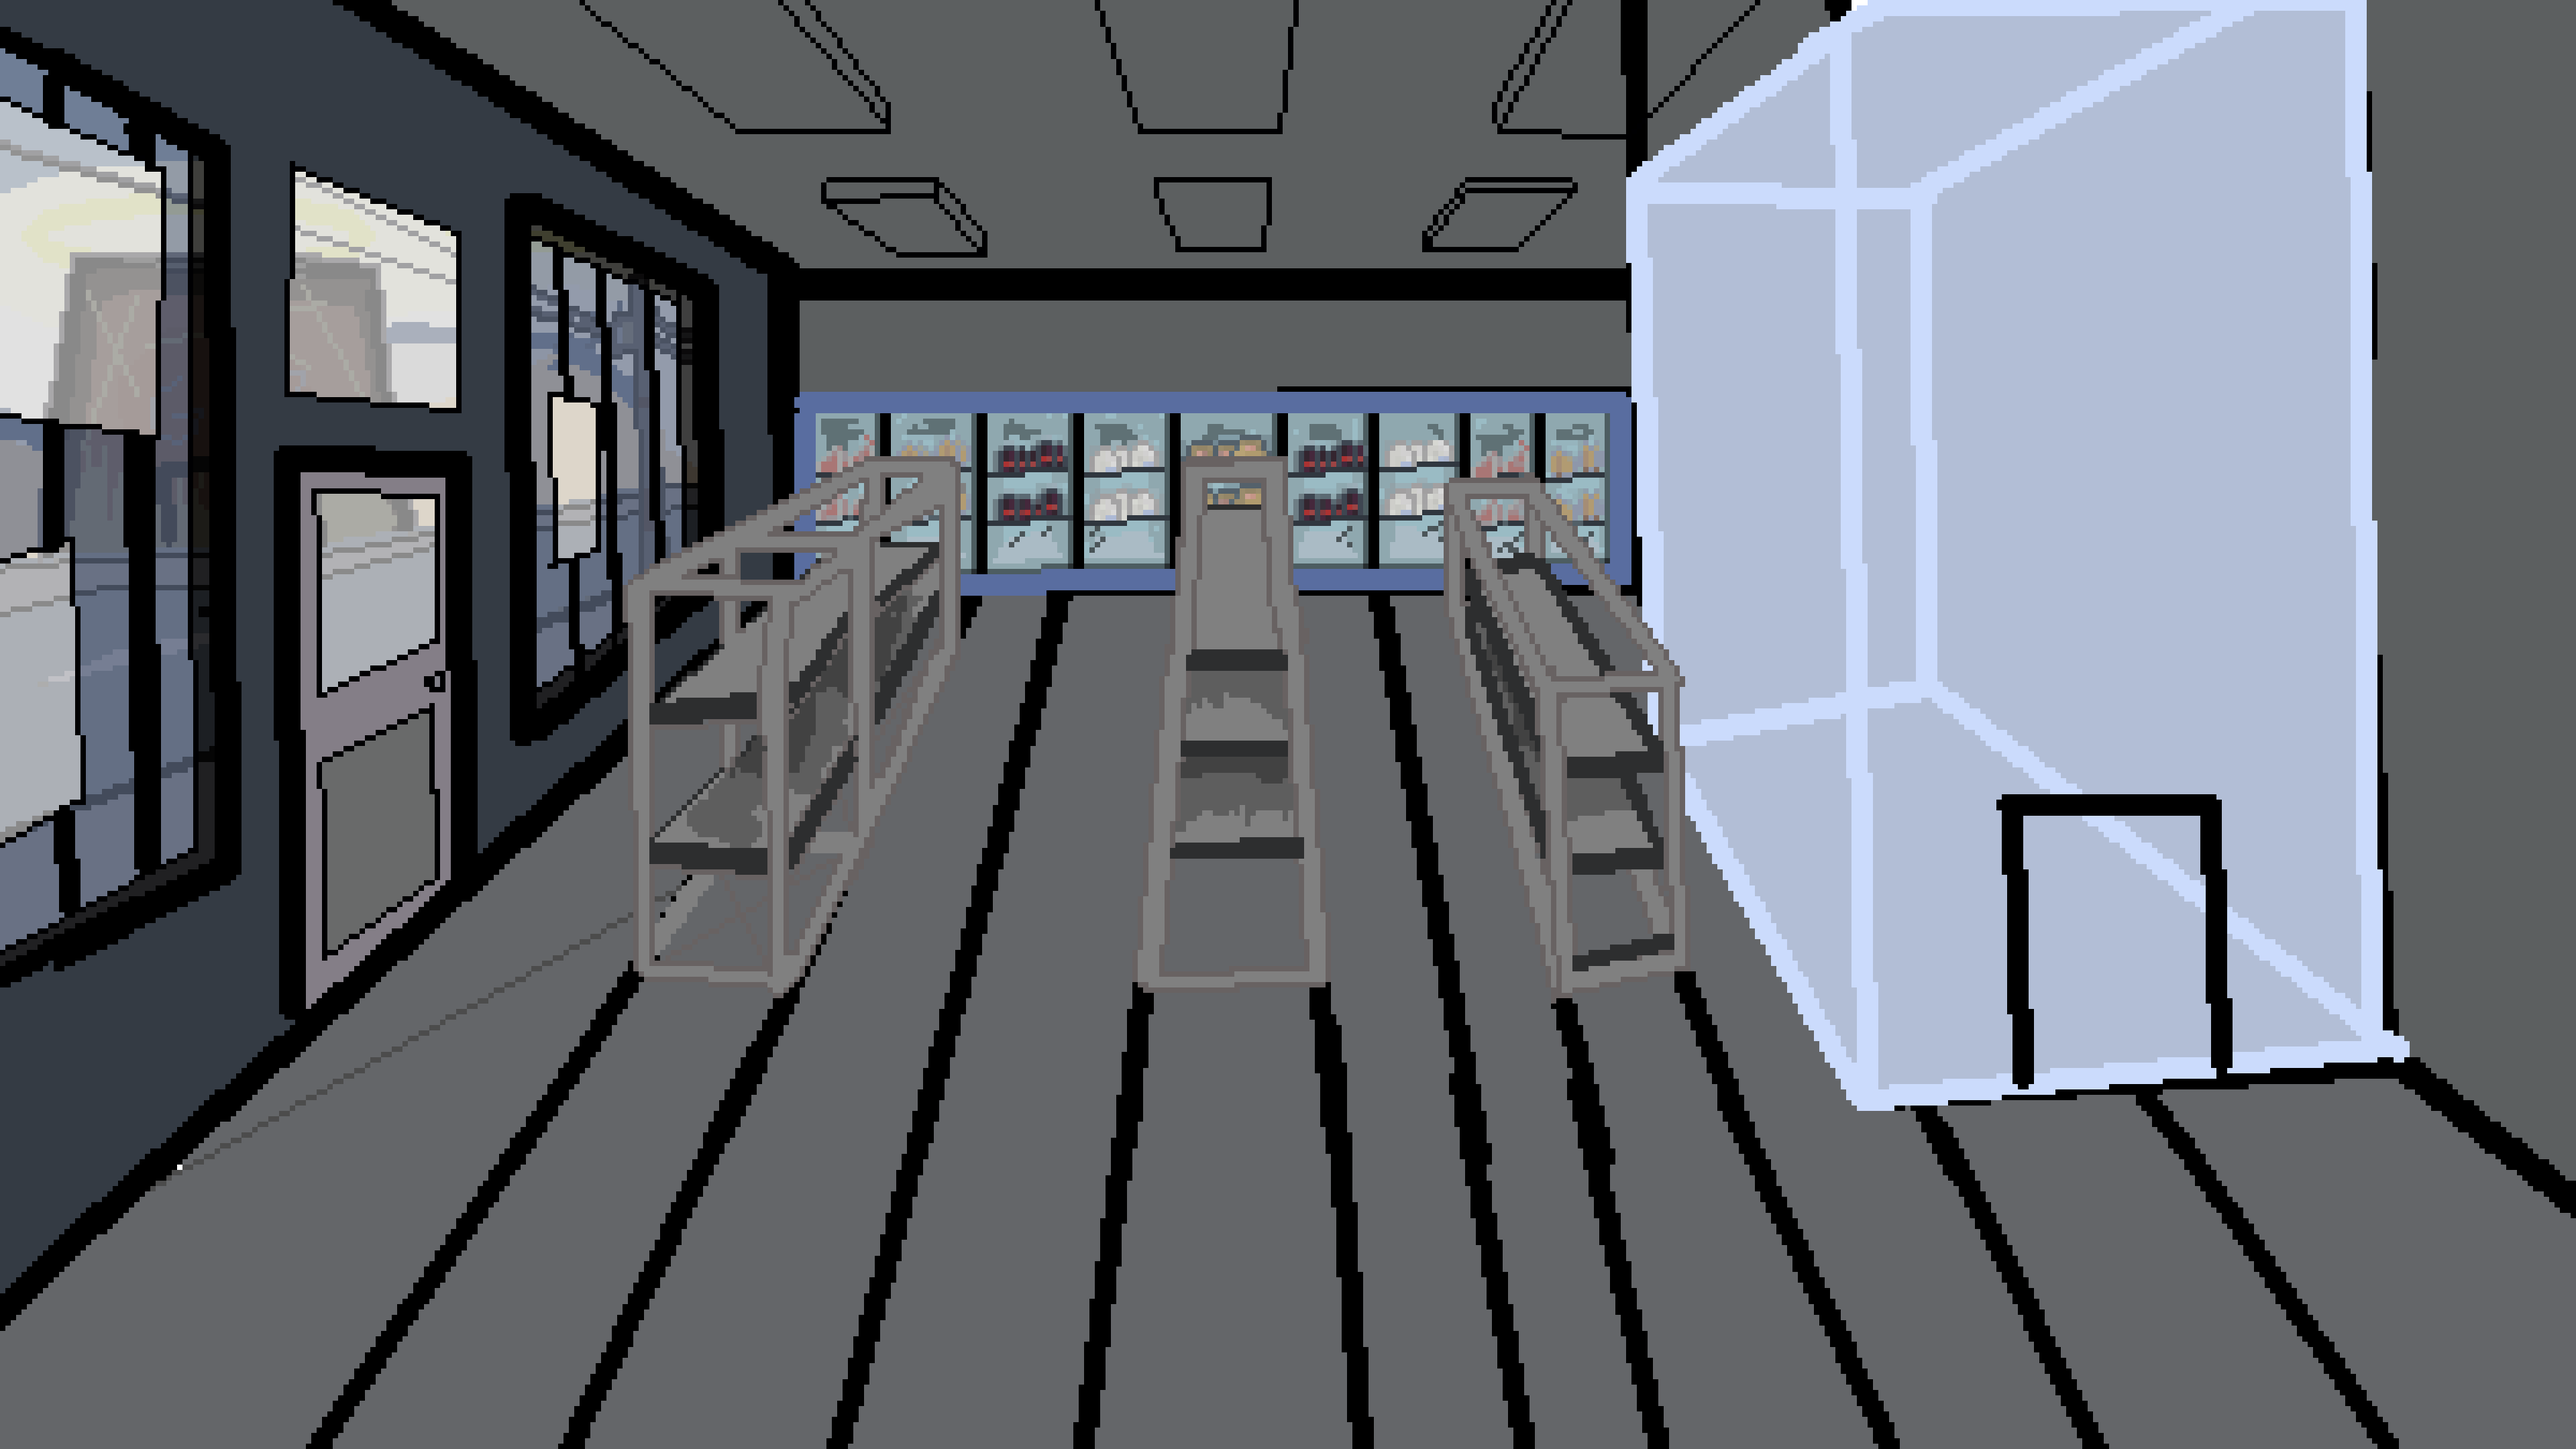
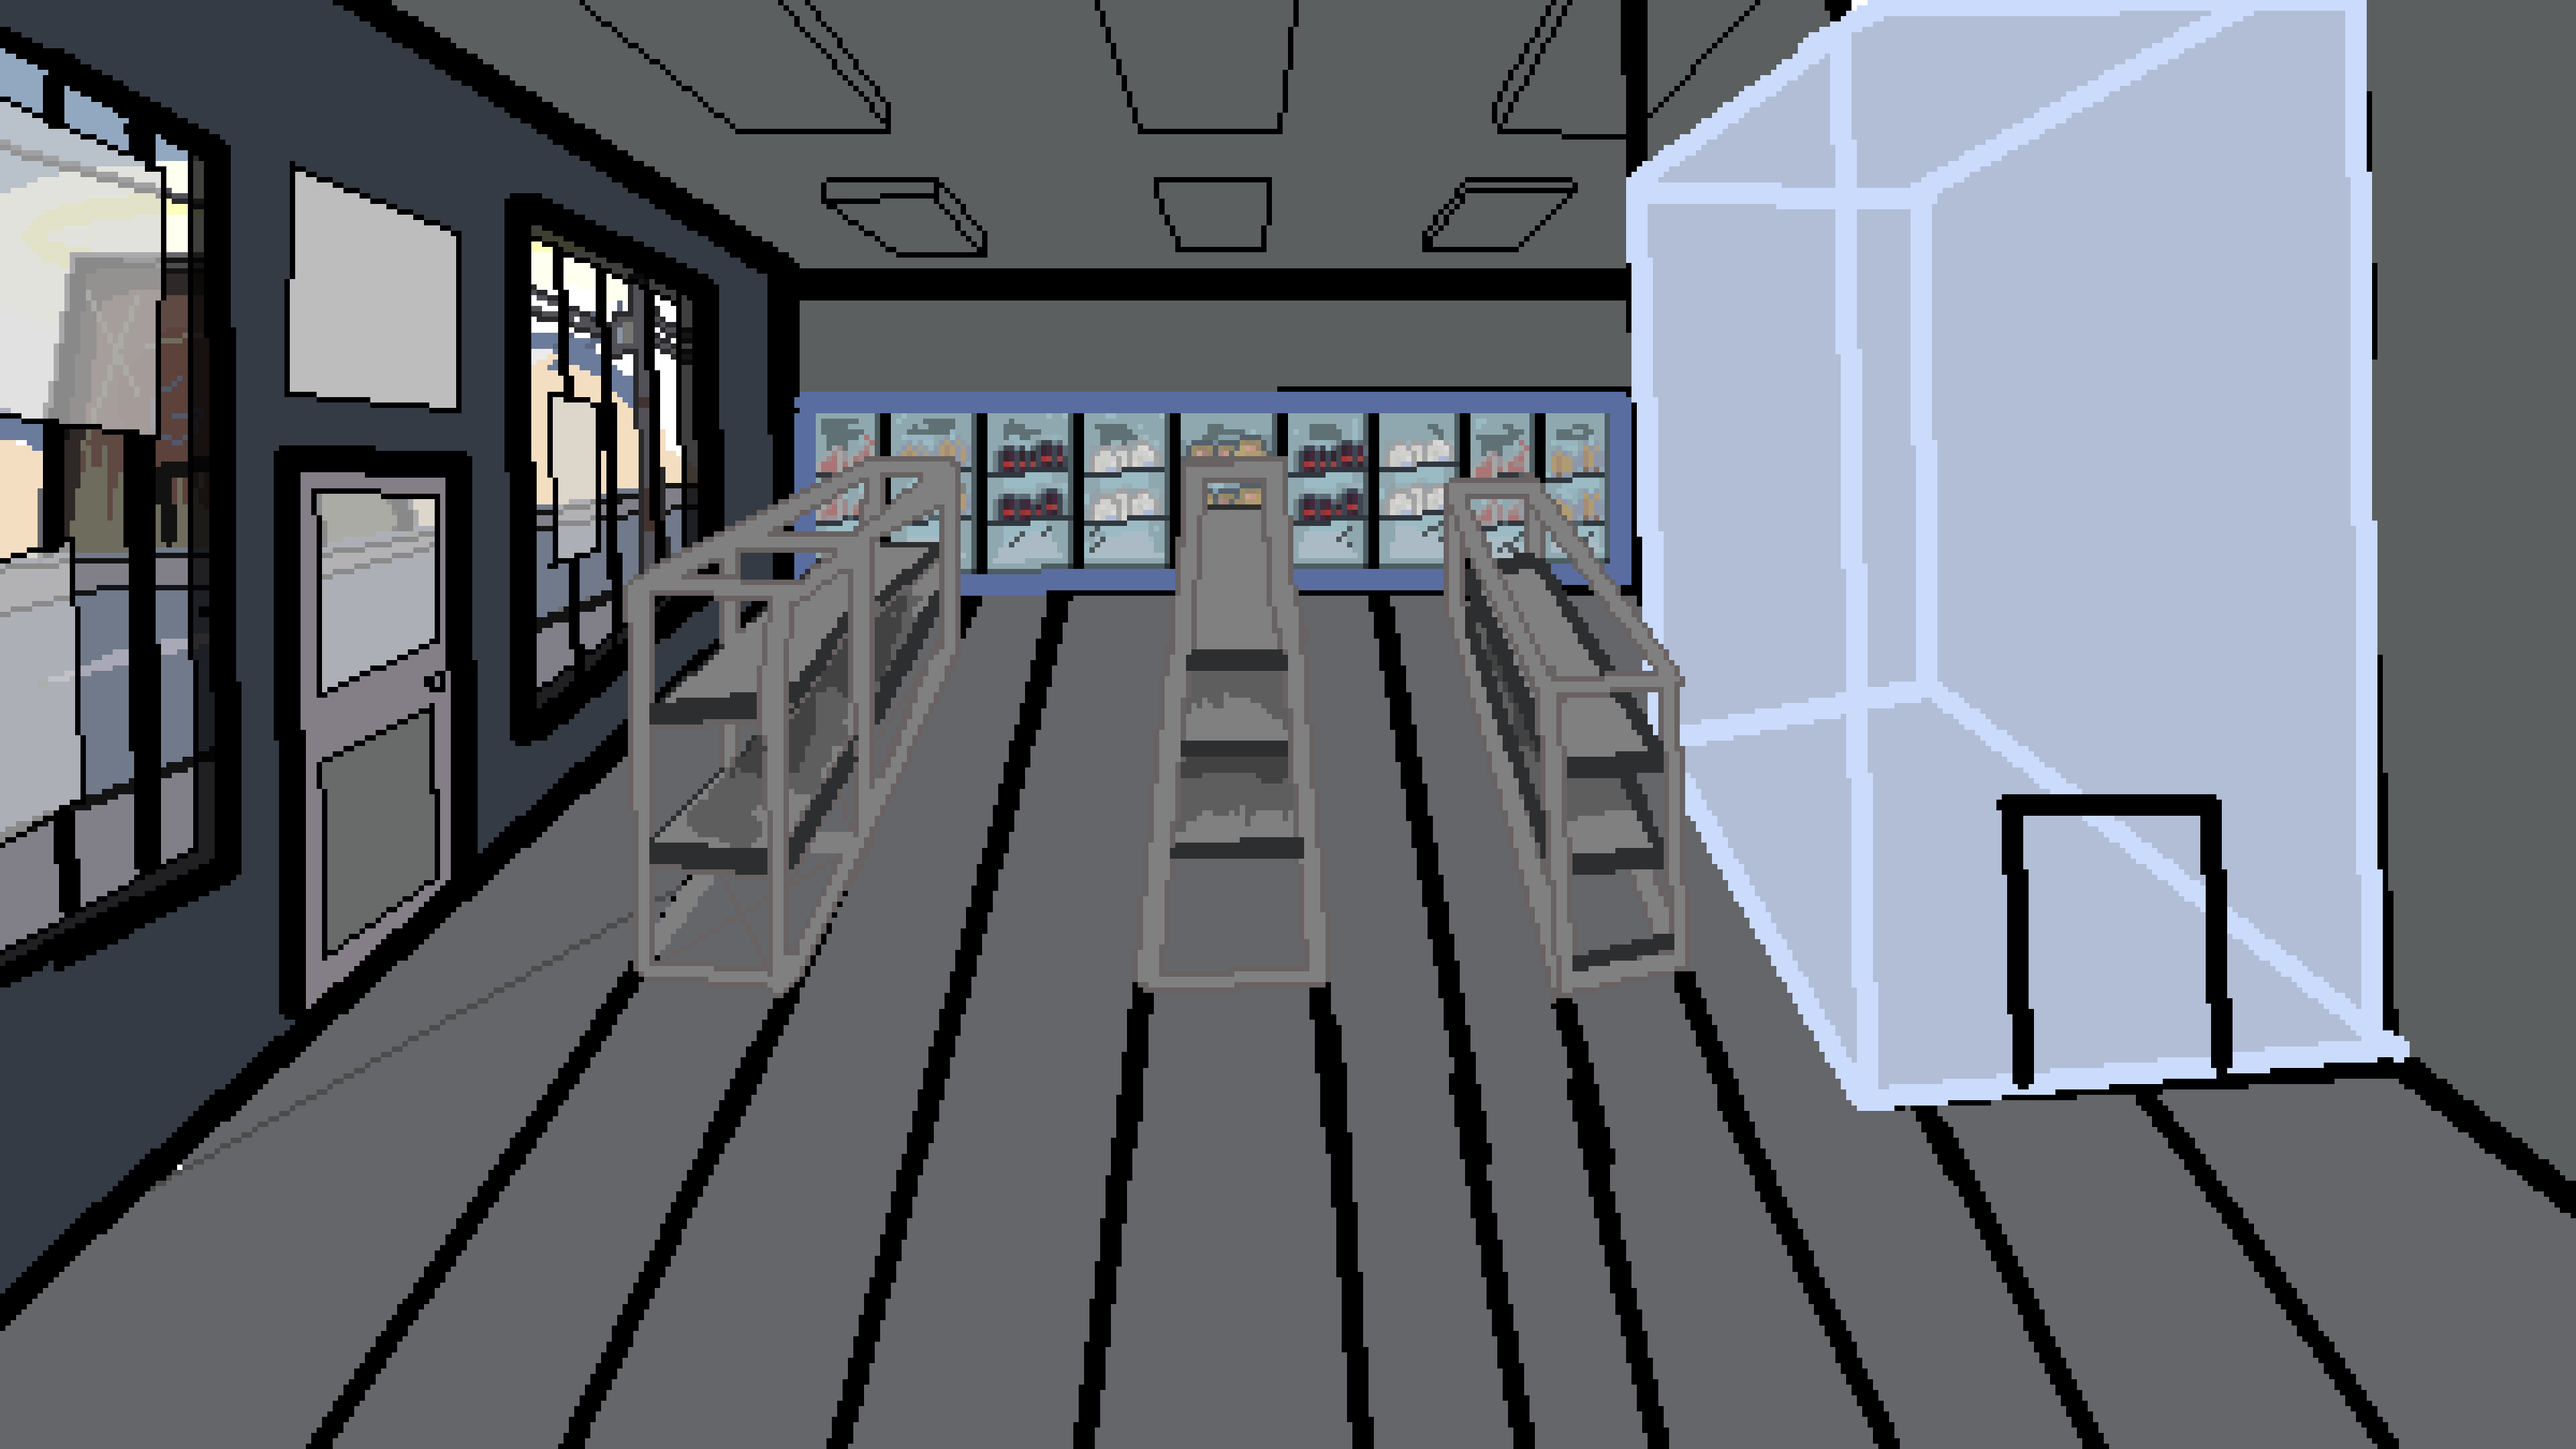
art

diff --git a/app/templates/cashier.html b/app/templates/cashier.html
@@ -14,9 +14,9 @@
   <script src="https://cdn.tailwindcss.com"></script>
 </head>
 
-<body class="min-h-screen flex flex-col relative overflow-auto bg-black/20" data-page="cashier">
+<body class="min-h-screen flex flex-col relative overflow-auto" data-page="cashier">
   <div class="fixed inset-0 -z-10 pointer-events-none overflow-hidden">
-    <img src="{{ url_for('static', filename='images/wipStoreInside.png') }}" class="absolute inset-0 w-full h-full object-cover render-pixel opacity-30">
+    <img src="{{ url_for('static', filename='images/wipStoreInside.png') }}" class="absolute inset-0 w-full h-full object-cover render-pixel opacity-90">
   </div>
 
   <main class="flex flex-col items-center">
@@ -34,7 +34,7 @@
         <img data-art-layer="accessories" style="position: absolute; top: 0; left: 0; width: 100%; height: 100%; image-rendering: pixelated;" src=""/>
       </div>
     </div>
-    <section class="fixed bottom-8 flex flex-row mx-auto text-center text-2xl items-center justify-center">
+    <section class="fixed bottom-8 flex flex-row mx-auto text-center text-2xl items-center justify-center bg-white/90">
       <div class = "flex px-8 overflow-y-scroll">
         <p id="main" class=""> ... </p>
       </div>
@@ -85,7 +85,7 @@
         <button id="gunButton" class="hover:scale-150 transition-transform hover:translate-x-20">
           <img src="{{ url_for('static', filename='images/keypad/gunSprite.png') }}" class="w-16 h-16 image-rendering-pixelated" />
         </button>
-        <footer class="mb-12 pr-6 pt-6 text-center text-sm/8 text-gray-100">
+        <footer class="mb-12 pr-6 pt-6 text-center text-sm/8 text-black-100">
         <a href="https://github.com/bgels/RestaurantSimulator" class="select-none hover:text-gray-300 transition">
         Made by Resturant Simulator, SoftDev P04 | 2026
         </a>
